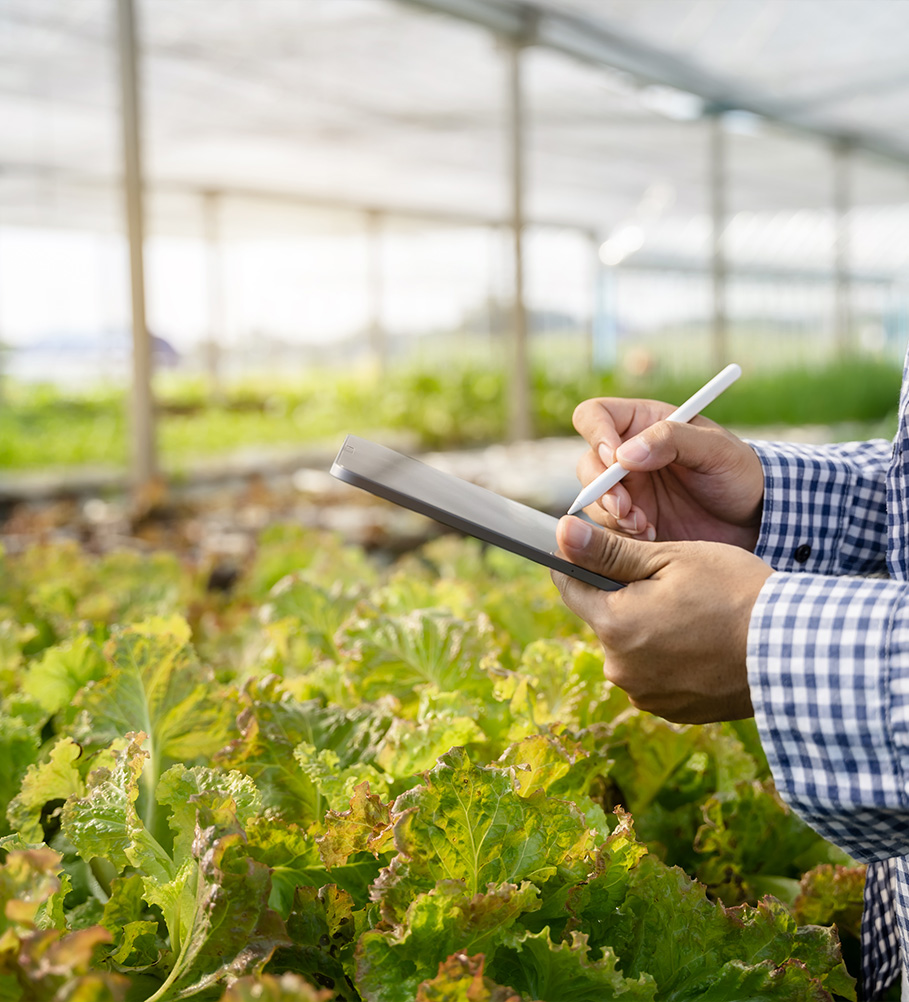
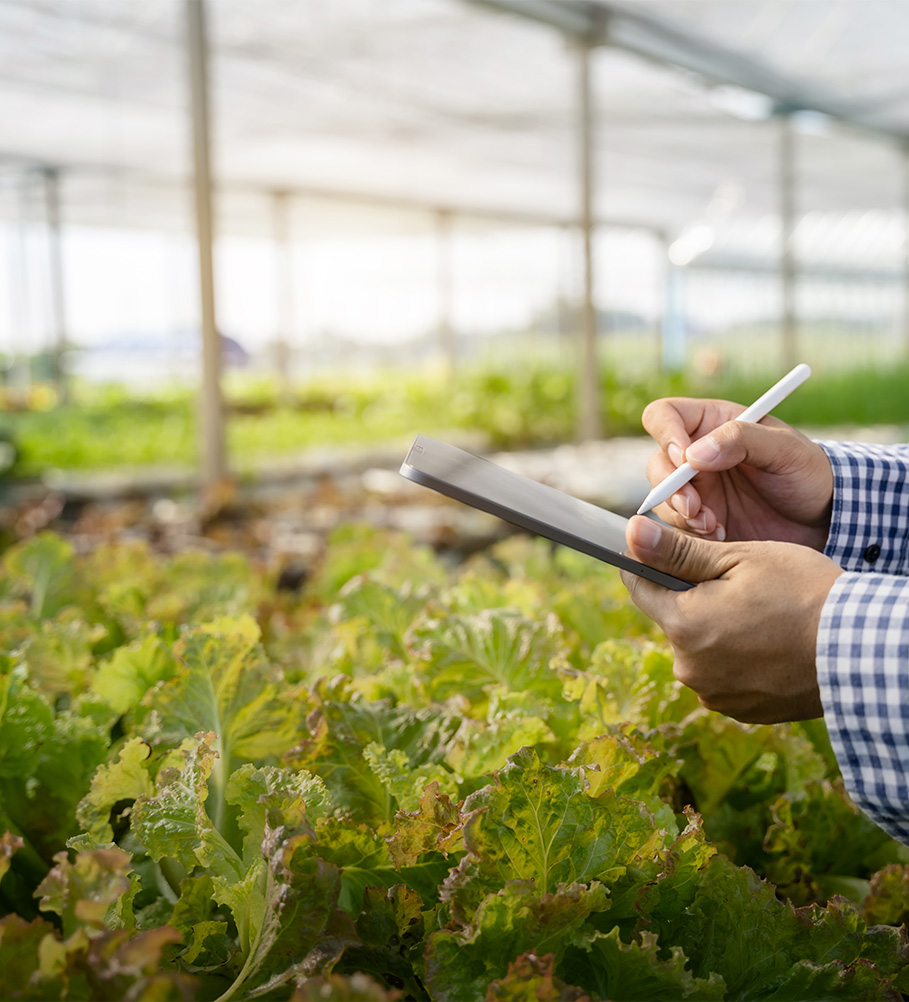
feat: add Manufacturing component with supporting styles and asset

diff --git a/src/components/Manufacturing.tsx b/src/components/Manufacturing.tsx
@@ -1,6 +1,8 @@
 import React from 'react';
 import { Check, Building2 } from 'lucide-react';
 import leafIconImg from '../assets/common/Leaf.png';
+import mfgUnit1 from '../assets/Manufacture/Manufacturing-unit-1.jpeg';
+import mfgUnit2 from '../assets/Manufacture/Manufacturing-unit-2.jpeg';
 
 export const Manufacturing: React.FC = () => {
   const points = [
@@ -51,20 +53,20 @@ export const Manufacturing: React.FC = () => {
             ))}
           </div>
 
-          {/* Main Top Right Facility Image */}
+          {/* Main Top Right Facility Image (Manufacturing-unit-1) */}
           <div className="mfg-image-card main-img-card">
             <img
-              src="https://images.unsplash.com/photo-1581091226825-a6a2a5aee158?auto=format&fit=crop&w=1000&q=80"
-              alt="La Vie Manufacturing Facility"
+              src={mfgUnit1}
+              alt="La Vie Manufacturing Unit 1"
               className="mfg-img"
             />
           </div>
 
-          {/* Overlapping Bottom Left Processing Image */}
+          {/* Overlapping Bottom Left Processing Image (Manufacturing-unit-2) */}
           <div className="mfg-image-card secondary-img-card">
             <img
-              src="https://images.unsplash.com/photo-1618005182384-a83a8bd57fbe?auto=format&fit=crop&w=800&q=80"
-              alt="Quality Processing & Packaging"
+              src={mfgUnit2}
+              alt="La Vie Manufacturing Unit 2"
               className="mfg-img"
             />
           </div>
@@ -74,11 +76,10 @@ export const Manufacturing: React.FC = () => {
             <div className="mfg-stat-icon-wrapper">
               <Building2 size={26} />
             </div>
-            <div className="mfg-stat-number">30,000+<span> sq. ft</span></div>
-
+            <div className="mfg-stat-number">30,000+<br /><span> sq. ft</span></div>
           </div>
         </div>
       </div>
-    </section >
+    </section>
   );
 };

diff --git a/src/App.css b/src/App.css
@@ -1372,11 +1372,11 @@
   left: -10px;
   width: 32%;
   height: 250px;
-  border-radius: 24px;
+  border-radius: 24px 0px 24px 24px;
   overflow: hidden;
   box-shadow: 0 24px 50px rgba(0, 0, 0, 0.15);
   z-index: 2;
-  border: 4px solid #ffffff;
+  /* border: 4px solid #ffffff; */
 }
 
 .mfg-img {
@@ -1393,7 +1393,7 @@
 /* Overlapping White Stat Badge */
 .mfg-stat-badge {
   position: absolute;
-  bottom: 25px;
+  bottom: 85px;
   right: 7rem;
   z-index: 3;
   background-color: #ffffff;
@@ -1421,13 +1421,21 @@
 }
 
 .mfg-stat-number {
-  font-family: var(--font-heading);
+  font-family: var(--font-subheading);
   font-size: 1.5rem;
   font-weight: 800;
   color: var(--color-primary);
   line-height: 1;
   margin-bottom: 0.4rem;
   text-align: center;
+  padding-left: 2rem;
+  padding-right: 2rem;
+}
+
+.mfg-stat-number span {
+  color: var(--color-dark);
+  font-size: 0.9rem;
+  font-weight: 600;
 }
 
 .mfg-stat-label {
